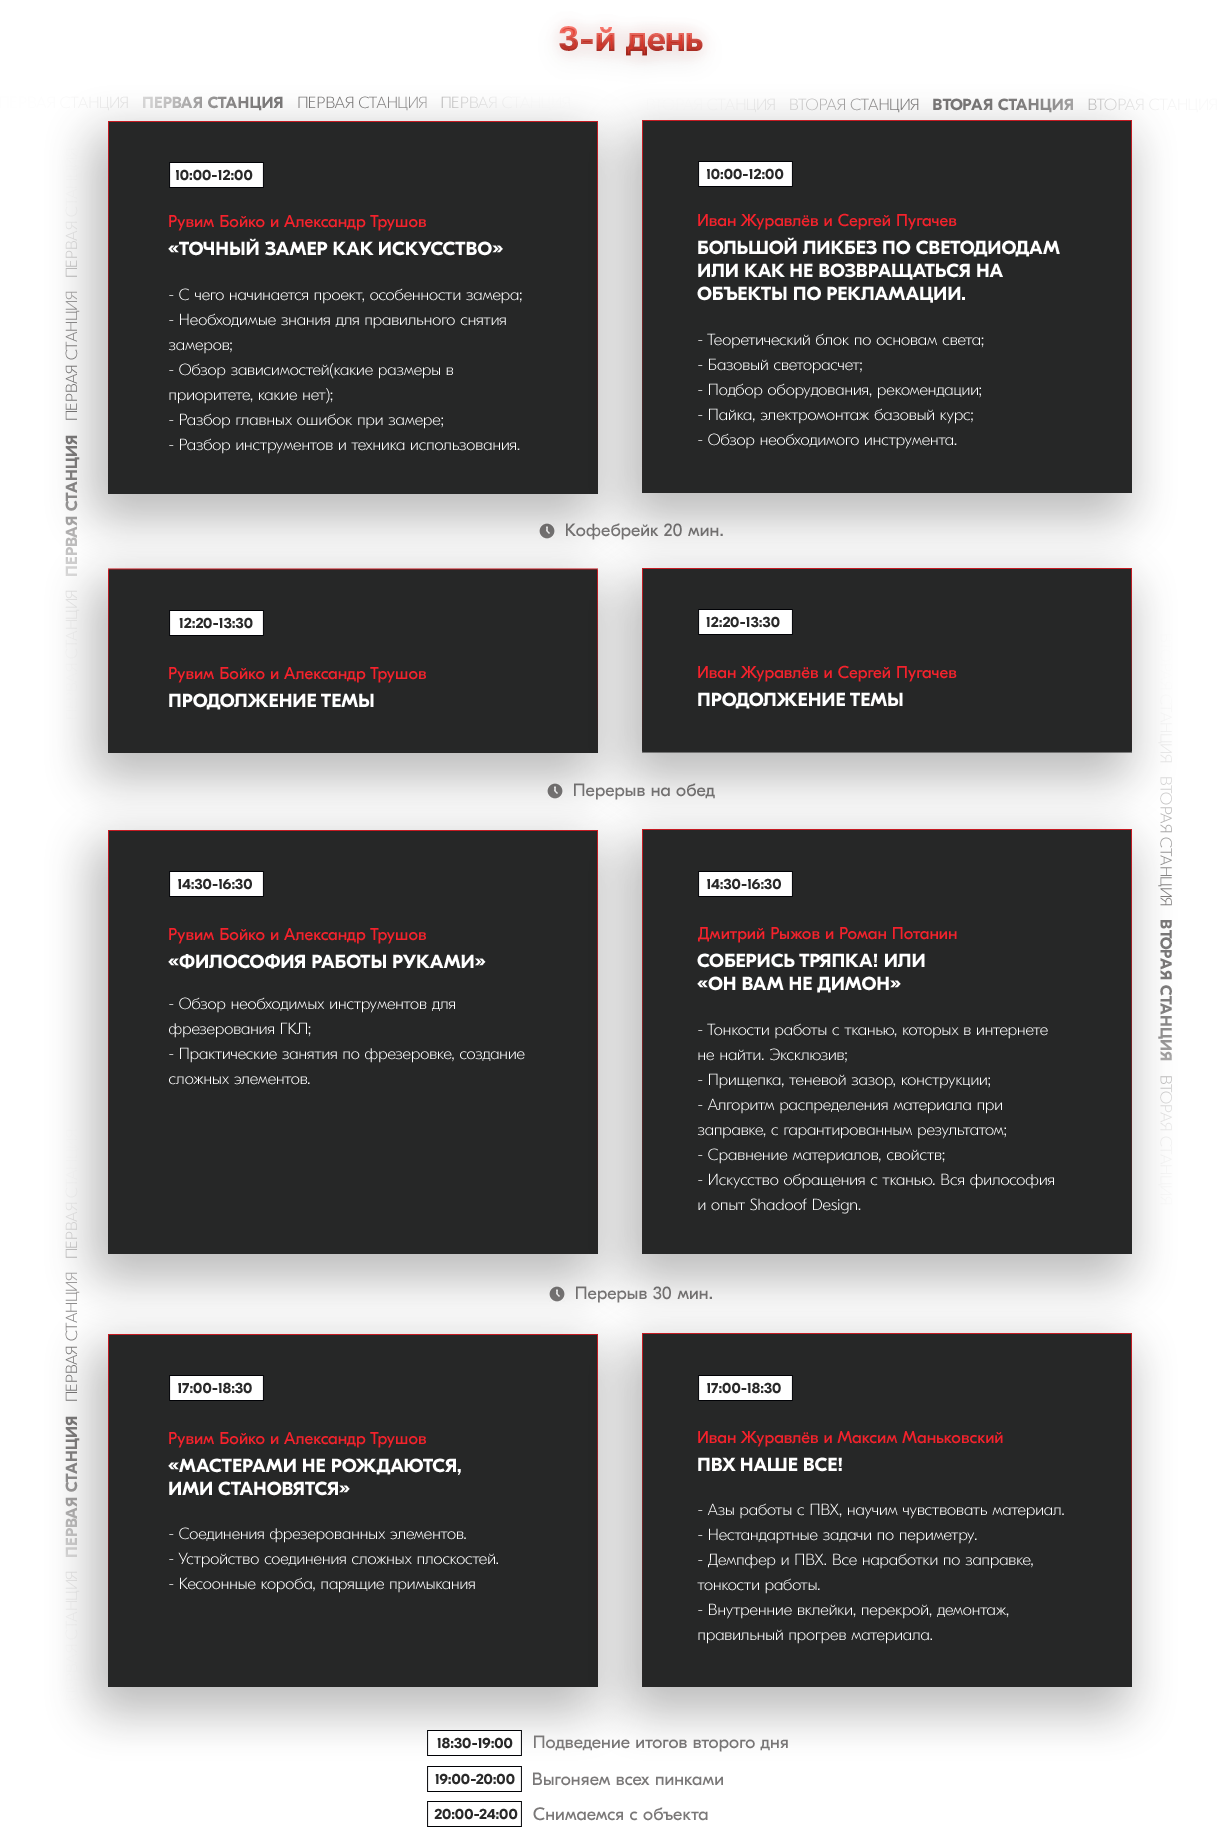
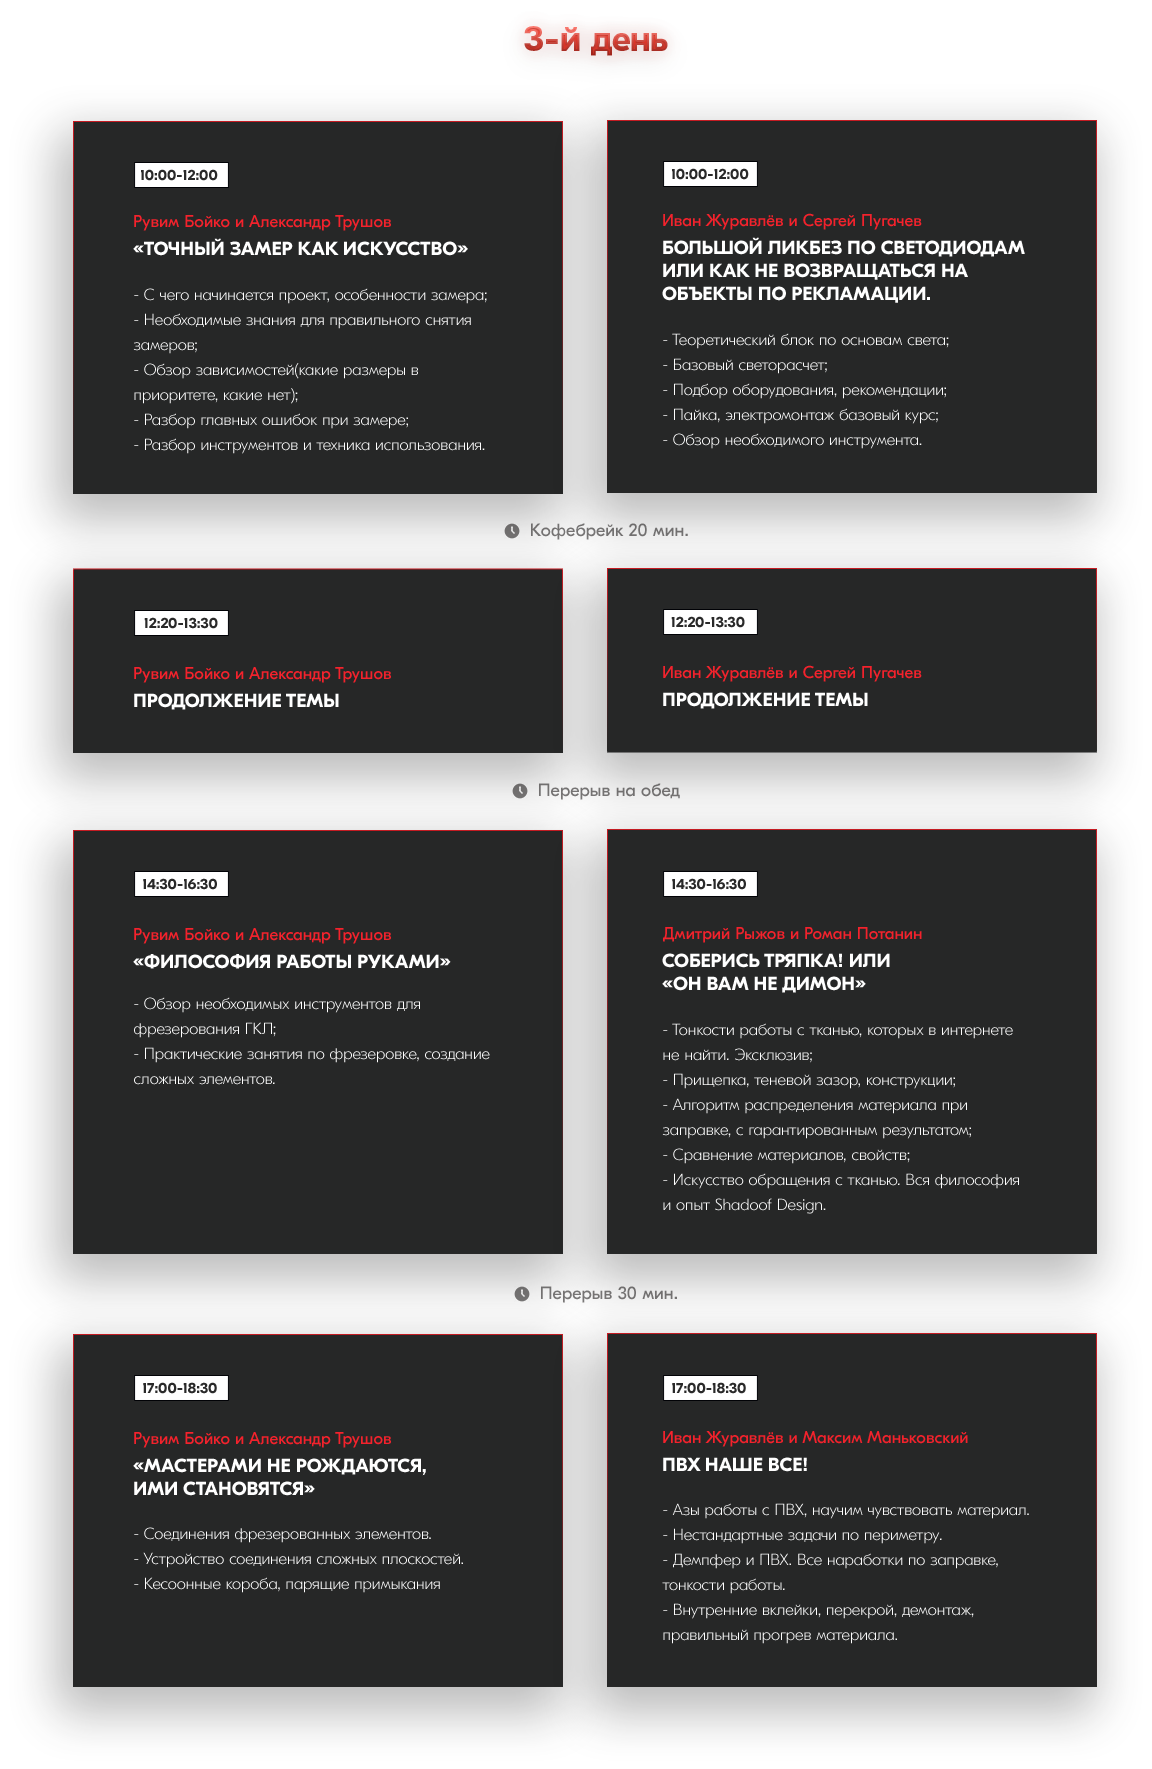
add new chenged in rosp page

diff --git a/timelist.html b/timelist.html
@@ -293,6 +293,147 @@
               </div>
           </div>
       </section>
+
+
+	  <section class="mobile_card__days__section">
+		<div class="container">
+			<div class="row">
+				<div class="col-xl-12 col-lg-12 col-md-12 col-sm-12">
+
+					<div class="first_rosp_day">
+						<img class="first_day_rosp" src="img/first_days_m.png" alt="">
+						<div class="block_list_rosp">
+							<div class="time_block">
+								<span class="block_time_min">10:00-11:00</span>
+								<img class="min_time" src="img/20minets.png" alt="">
+							</div>
+							<div class="name_and_title_block">
+								<p class="name">Рувим Бойко </p>
+								<p class="title">Зачем нужен личный бренд</p>
+							</div>
+						</div>
+						<div class="block_list_rosp">
+							<div class="time_block">
+								<span class="block_time_min">11:20-12:20</span>
+								<img class="min_time" src="img/10minutes.png" alt="">
+							</div>
+							<div class="name_and_title_block">
+								<p class="name">Рувим Бойко </p>
+								<p class="title">Как продавать свои услуги</p>
+							</div>
+						</div>
+						<div class="block_list_rosp">
+							<div class="time_block">
+								<span class="block_time_min">12:30-13:00</span>
+								<img class="min_time" src="img/10minutes.png" alt="">
+							</div>
+							<div class="name_and_title_block">
+								<p class="name">Александр Трушов</p>
+								<p class="title">"Теория всего" или как не запутаться при производстве работ</p>
+							</div>
+						</div>
+						<div class="block_list_rosp">
+							<div class="time_block">
+								<span class="block_time_min">13:10-14:00</span>
+								<img class="min_time" src="img/1hours.png" alt="">
+							</div>
+							<div class="name_and_title_block">
+								<p class="name">Александр Трушов</p>
+								<p class="title">Твоя экспертность как готовый продукт</p>
+							</div>
+						</div>
+						<div class="block_list_rosp">
+							<div class="time_block">
+								<span class="block_time_min">15:00-16:00</span>
+								<img class="min_time" src="img/10minutes.png" alt="">
+							</div>
+							<div class="name_and_title_block">
+								<p class="name">Иван Журавлев/Сергей Пугачев </p>
+								<p class="title">Путь от мастера до руководителя. Горький опыт</p>
+							</div>
+						</div>
+						<div class="block_list_rosp">
+							<div class="time_block">
+								<span class="block_time_min">15:00-16:00</span>
+								<img class="min_time" src="img/10minutes.png" alt="">
+							</div>
+							<div class="name_and_title_block">
+								<p class="name">Иван Журавлев/Сергей Пугачев</p>
+								<p class="title">Проблема мастеров и «звездная» болезнь. С этим можно бороться</p>
+							</div>
+						</div>
+						<div class="block_list_rosp">
+							<div class="time_block">
+								<span class="block_time_min" style="margin-top: -30px;">15:00-16:00</span>
+							</div>
+							<div class="name_and_title_block">
+								<p class="title">Нетворкинг. Подведение итогов.</p>
+							</div>
+						</div>
+					</div>
+
+					<div class="second_rosp_day">
+						<img class="days-rosp" src="img/2-days.png" alt="">
+						<div class="rosp__">
+							<img class="card_rosp" src="img/card_rosp1.png" alt="">
+							<img style="margin-top: -120px;" class="card_rosp" src="img/card_rosp2.png" alt="">
+							<img class="coffee_brake" src="img/times1.png" alt="">
+						</div>
+
+						<div class="rosp__">
+							<img class="card_rosp" src="img/card_rosp3.png" alt="">
+							<img class="card_rosp" src="img/card_rosp4.png" alt="">
+							<img class="coffee_brake" src="img/times2.png" alt="">
+						</div>
+
+						<div class="rosp__">
+							<img class="card_rosp" src="img/card_rosp5.png" alt="">
+							<img class="card_rosp" src="img/card_rosp6.png" alt="">
+							<img class="coffee_brake" src="img/times3.png" alt="">
+						</div>
+
+						<div class="rosp__">
+							<img class="card_rosp" src="img/card_rosp7.png" alt="">
+							<img class="card_rosp" src="img/card_rosp8.png" alt="">
+							<img class="coffee_brake" src="img/times4.png" alt="">
+						</div>
+					</div>
+
+
+					<div class="third_rosp_day">
+						<img class="days-rosp" src="img/3-days-rosp.png" alt="">
+						<div class="rosp__">
+							<img class="card_rosp" src="img/card_rosp9.png" alt="">
+							<img style="margin-top: -120px;" class="card_rosp" src="img/card_rosp10.png" alt="">
+							<img class="coffee_brake" src="img/times5.png" alt="">
+						</div>
+
+						<div class="rosp__">
+							<img class="card_rosp" src="img/card_rosp11.png" alt="">
+							<img class="card_rosp" src="img/card_rosp12.png" alt="">
+							<img class="coffee_brake" src="img/times6.png" alt="">
+						</div>
+
+						<div class="rosp__">
+							<img class="card_rosp" src="img/card_rosp13.png" alt="">
+							<img class="card_rosp" src="img/card_rosp14.png" alt="">
+							<img class="coffee_brake" src="img/times7.png" alt="">
+						</div>
+
+						<div class="rosp__">
+							<img class="card_rosp" src="img/card_rosp15.png" alt="">
+							<img class="card_rosp" src="img/card_rosp16.png" alt="">
+							<img class="coffee_brake" src="img/times8.png" alt="">
+						</div>
+					</div>
+					
+					
+					
+					
+				</div>
+			</div>
+		</div>
+	</section>
 	 
 
 

diff --git a/css/list.css b/css/list.css
@@ -801,6 +801,115 @@ margin-left: -20px;
   }
 }
 
+.wrapper .mobile_card__days__section {
+  display: none;
+}
+
+@media (max-width: 552px) {
+  .wrapper .card__days__section {
+   display: none;
+  }
+  .wrapper .mobile_card__days__section {
+    display: block;
+  }
+
+  .wrapper .mobile_card__days__section .third_rosp_day{
+    margin-top: -230px;
+  }
+
+  .wrapper .mobile_card__days__section .first_rosp_day{
+    width: 100%;
+    margin-top: 60px;
+  }
+
+.block_list_rosp {
+  display: flex;
+  flex-direction: row;
+  margin-top: 40px;
+  margin-left: 10px;
+}
+
+.time_block {
+  display: flex;
+  flex-direction: column;
+  justify-content: center;
+}
+
+.block_time_min {
+  width: 95px;
+  height: 26px;
+  border: 1px solid #000105;
+  background-color: #ffffff;
+  color: #292929;
+  font-size: 15px;
+  font-weight: 1000;
+  text-align: center;
+  padding-top: 3px;
+}
+
+.min_time {
+  width: 80%; 
+  margin-top: 10px;
+}
+
+.name_and_title_block {
+  display: flex;
+  flex-direction: row;
+}
+
+.name {
+  /* Style for "Рувим Бойк" */
+color: #6a6a6a;
+font-size: 0.8em;
+font-weight: 700;
+font-style: normal;
+letter-spacing: normal;
+line-height: normal;
+text-align: left;
+margin-left: 20px;
+}
+
+.title {
+/* Text style for "Зачем нуже" */
+font-weight: 700;
+font-style: normal;
+color: white;
+letter-spacing: normal;
+line-height: normal;
+margin-left: 10px;
+font-size: 0.8em;
+}
+
+  .wrapper .mobile_card__days__section .first_day_rosp{
+    display: flex;
+    margin: auto;
+    max-width: 120px;
+  }
+ 
+  
+
+  .wrapper .mobile_card__days__section .card_rosp {
+   width: 100%;
+  }
+  .wrapper .mobile_card__days__section .days-rosp {
+    width: 100%;
+    position: relative;
+    top: -90px;
+  }
+
+  .wrapper .mobile_card__days__section .rosp__ {
+    position: relative;
+    top: -220px;
+  }
+
+  .wrapper .mobile_card__days__section .coffee_brake {
+    display: flex;
+    margin: auto;
+    width: 55%;
+  }
+
+}
+
 
 
 .wrapper .raspiasnie-tickets-section {
@@ -968,7 +1077,15 @@ margin-left: -20px;
   text-align: left;
   font-weight: 300;
   margin-top: -86px;
+
 }
+
+@media (max-width: 438px) {
+.wrapper .buy-card-rosp-section .individual {
+  margin-left: 18px;
+}
+}
+
 
 .wrapper .buy-card-rosp-section .modal-body {
   margin-bottom: -23px;
@@ -998,6 +1115,8 @@ margin-left: -20px;
   align-content: center;
 }
 
+
+
 .wrapper .buy-card-rosp-section .input__group .inp {
   /* Style for "Поле ввода" */
   border: 1px solid;
@@ -1011,6 +1130,11 @@ margin-left: -20px;
   color: white;
   padding-left: 20px;
   outline: none;
+}
+@media (max-width: 438px) {
+  .wrapper .buy-card-rosp-section .input__group .inp{
+    margin-left: -67px;
+  }
 }
 
 .wrapper .buy-card-rosp-section .input__group .inp::-webkit-input-placeholder {
@@ -1091,6 +1215,12 @@ margin-left: -20px;
   }
 }
 
+@media (max-width: 552px) {
+  .wrapper .buy-card-rosp-section {
+    margin-top: -230px;
+  }
+}
+
 
 .wrapper .buy-card-rosp-section .main__block__card {
   display: -webkit-box;
@@ -1113,6 +1243,8 @@ margin-left: -20px;
     margin-bottom: 20px;
   }
 }
+
+
 
 .wrapper .buy-card-rosp-section .main__block__card .title {
   margin-bottom: 10px;
